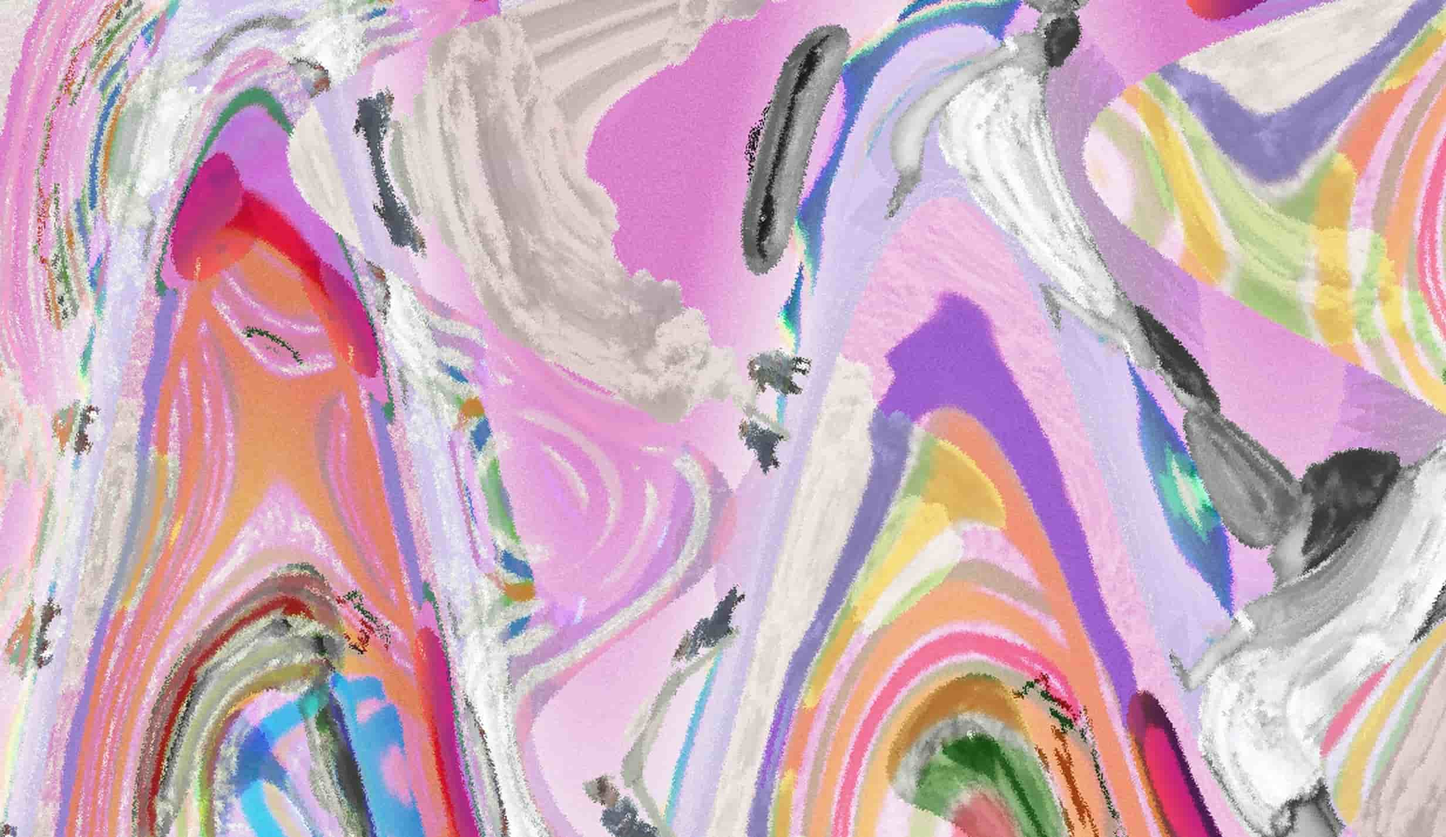
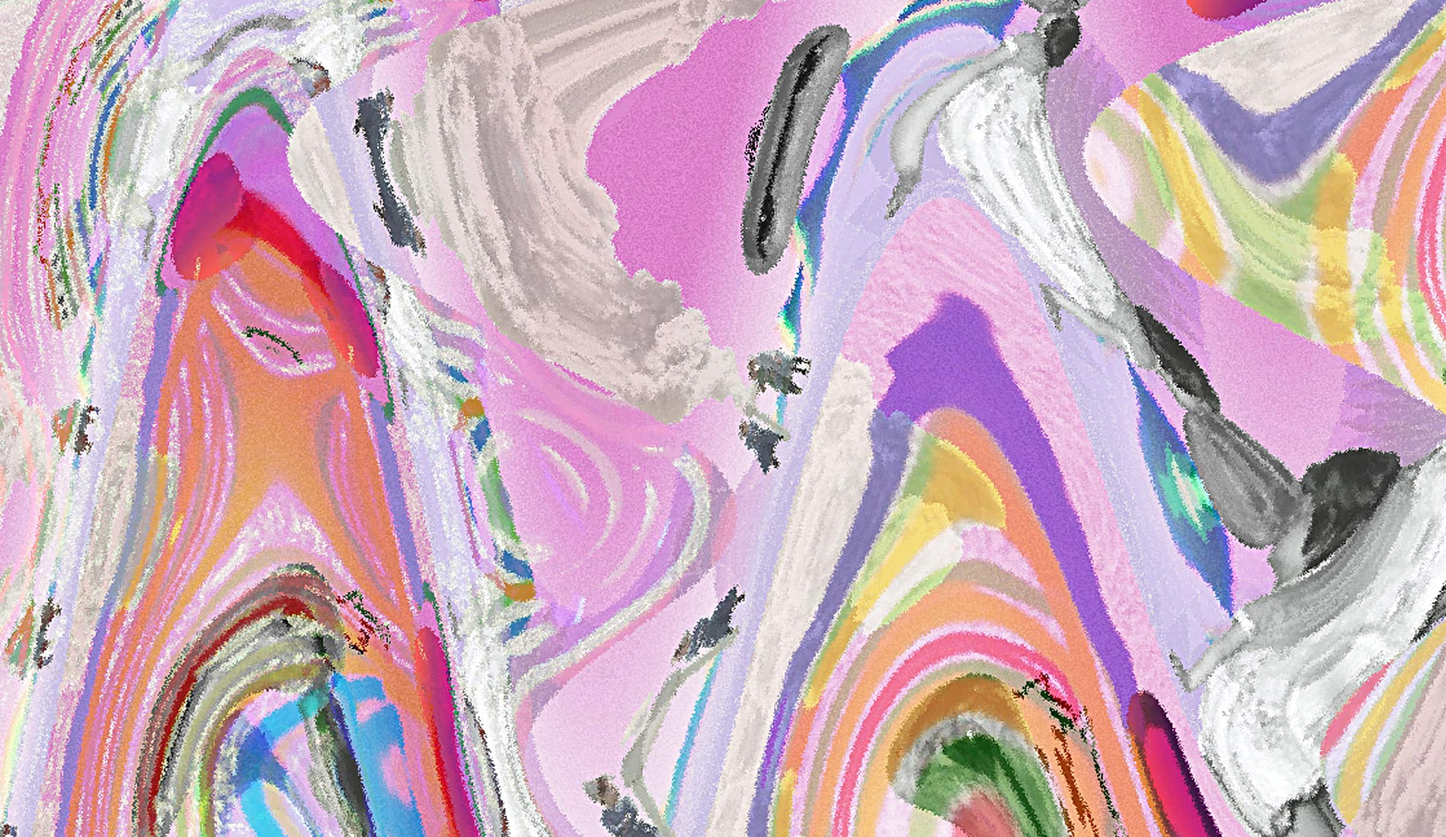
x

diff --git a/styles/style.css b/styles/style.css
@@ -54,7 +54,7 @@ height:auto;
     position:absolute;
     height: 600px;
     z-index:0;
-    background-image: url("../images/mosaic-cover-2.jpg");
+    background-image: url("../images/mosaic-cover-3.jpg");
     background-position: center;
     background-repeat: no-repeat;
     background-size: cover;
@@ -125,7 +125,7 @@ height:auto;
         position:absolute;
         height: 950px;
         z-index:0;
-        background-image: url("../images/mosaic-cover-mobile-2.jpg");
+        background-image: url("../images/mosaic-cover-mobile-3.jpg");
         background-position: center;
         background-repeat: no-repeat;
         background-size: cover;
